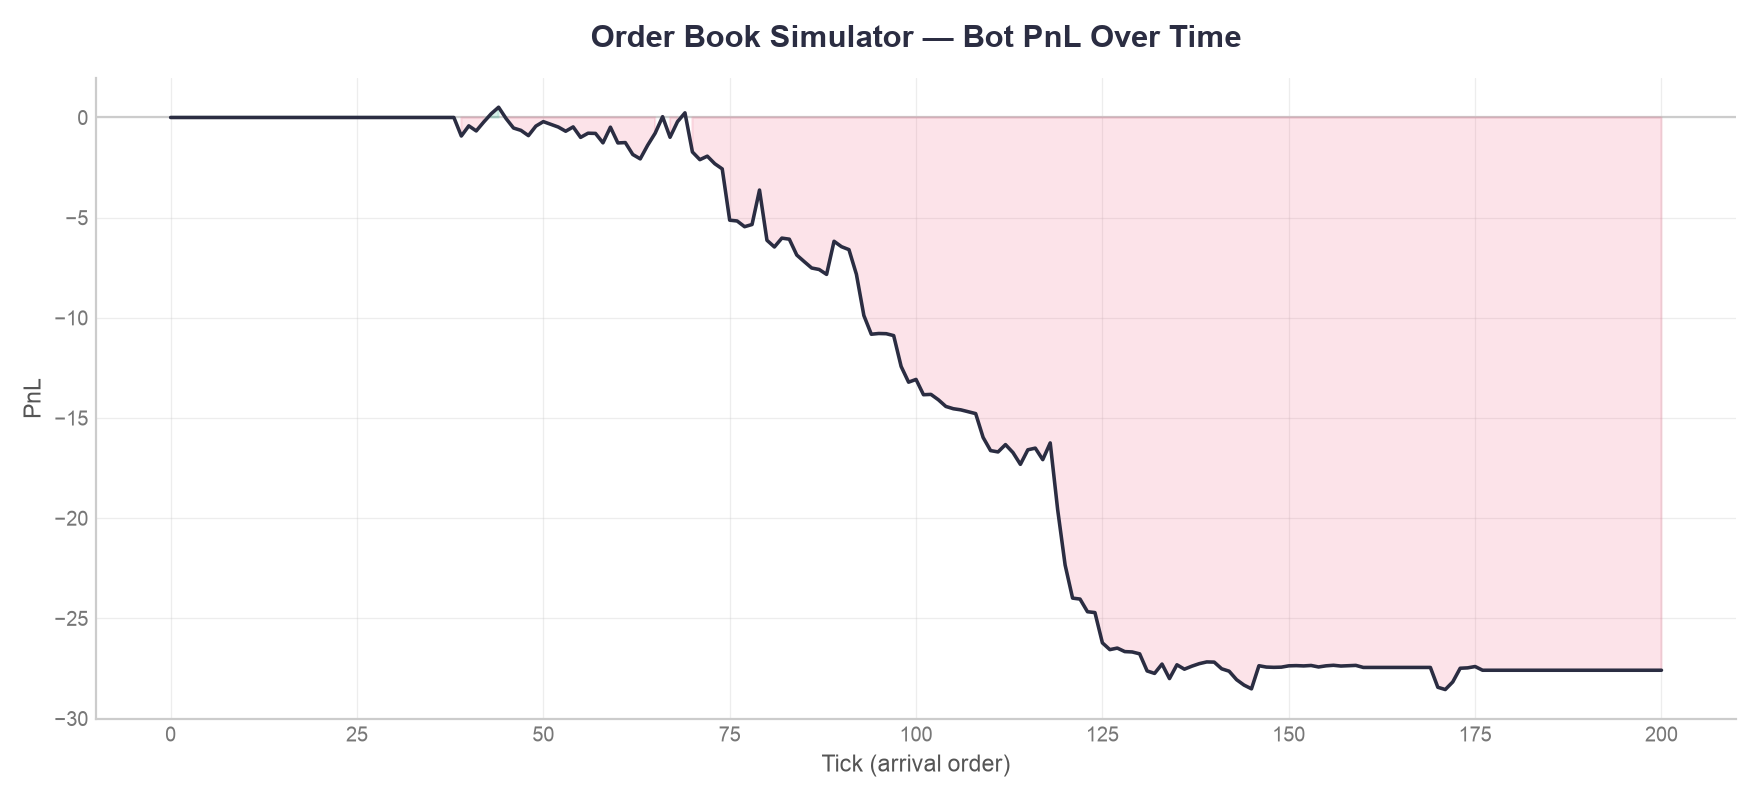
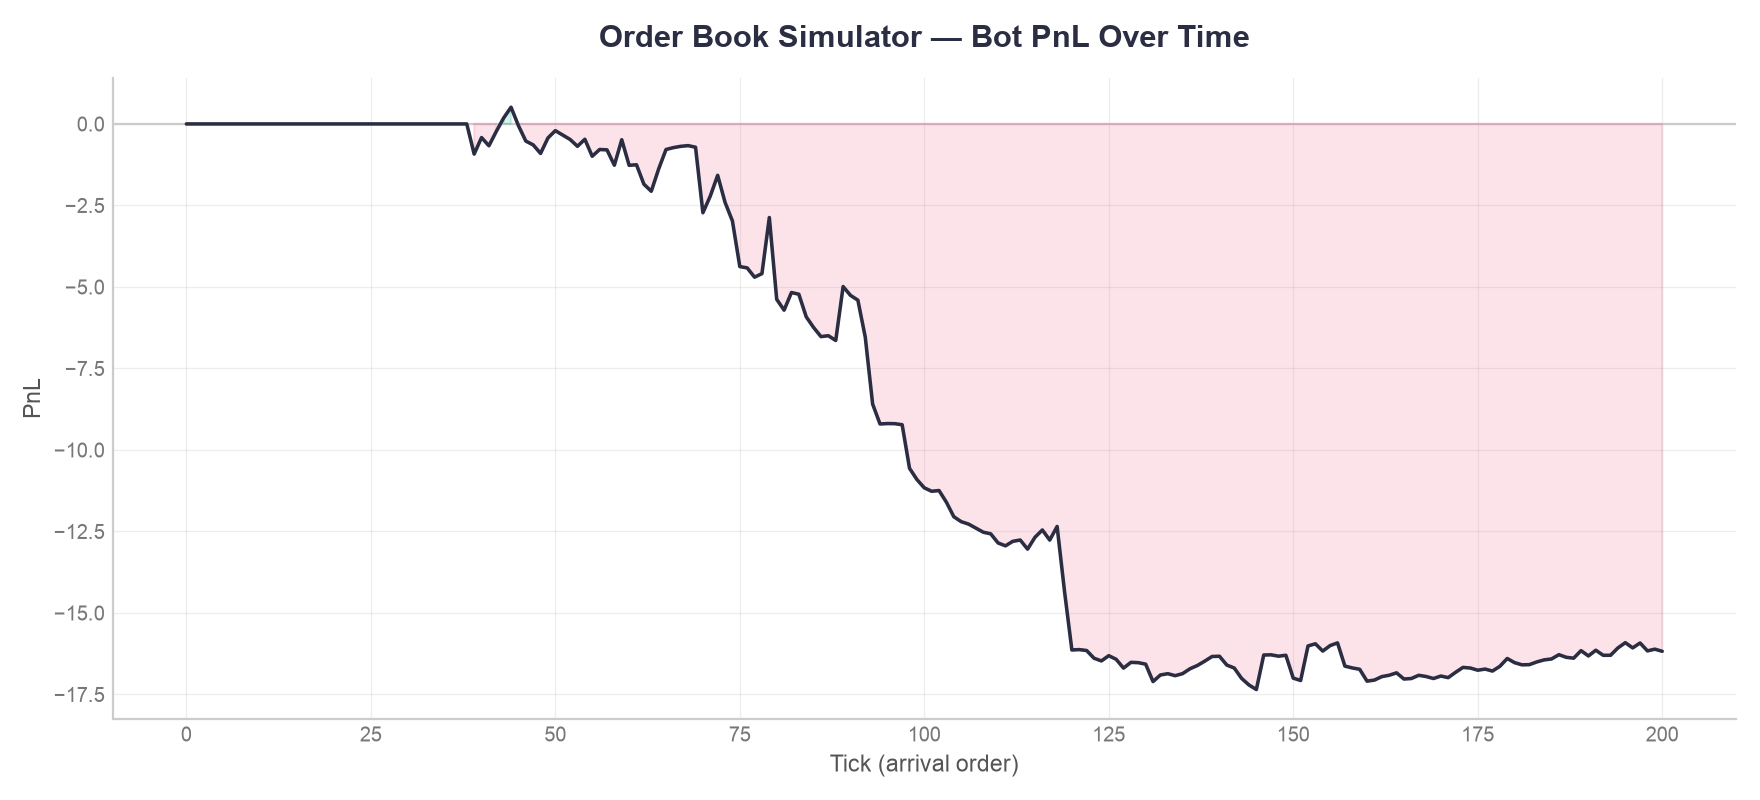
feat: volatility-based spread (level 3) with mid-history-driven stdev, tuned via multi-seed sweep

diff --git a/evaluate_volatility.py b/evaluate_volatility.py
@@ -1,0 +1,47 @@
+"""
+Same idea as evaluate_skew.py, but for vol_coefficient: runs the bot
+across many random seeds for each candidate value, so we judge each one
+by its AVERAGE behaviour (and how much it varies), not by a single
+lucky or unlucky simulation. skew_coefficient is fixed at 0.01 (the
+value evaluate_skew.py already found to be best), so this sweep isolates
+the effect of the volatility-based spread on top of that.
+"""
+
+import statistics
+from market_simulator import simulate_market_with_bot
+
+
+def evaluate_volatility(vol_values, n_seeds: int = 50, n_ticks: int = 200,
+                         skew_coefficient: float = 0.01, vol_window: int = 20):
+    results = {}
+    for vol_coef in vol_values:
+        pnls = []
+        abs_inventories = []
+        for seed in range(n_seeds):
+            book, price_history, bot, pnl_history = simulate_market_with_bot(
+                n_ticks=n_ticks, seed=seed, skew_coefficient=skew_coefficient,
+                vol_window=vol_window, vol_coefficient=vol_coef
+            )
+            inventory, cash = bot.get_inventory_and_cash()
+            pnl = bot.get_pnl()
+            pnls.append(pnl)
+            abs_inventories.append(abs(inventory))
+
+        results[vol_coef] = {
+            "mean_pnl": statistics.mean(pnls),
+            "stdev_pnl": statistics.stdev(pnls),
+            "mean_abs_inventory": statistics.mean(abs_inventories),
+        }
+    return results
+
+
+def print_results(results):
+    print(f"{'vol_coef':<10}{'mean PnL':>12}{'stdev PnL':>12}{'mean |inv|':>12}")
+    for vol_coef, r in results.items():
+        print(f"{vol_coef:<10}{r['mean_pnl']:>12.2f}{r['stdev_pnl']:>12.2f}{r['mean_abs_inventory']:>12.2f}")
+
+
+if __name__ == "__main__":
+    vol_values = [0, 10, 50, 100, 200, 500, 1000, 2000, 5000]
+    results = evaluate_volatility(vol_values, n_seeds=50, n_ticks=200)
+    print_results(results)

diff --git a/market_simulator.py b/market_simulator.py
@@ -9,16 +9,16 @@ import matplotlib.pyplot as plt
 from orderbook import Order, OrderBook, Side
 from market_maker import MarketMaker
 
-# TODO (self-cross / self-trade prevention): Order has no owner/trader_id
-# field right now. Once the market-making bot places its own bid and ask
-# into this same book, there's a theoretical risk of the bot crossing
-# against its own resting order. Two ways to handle it later:
-#   a) simple: the bot always cancels its previous quote before placing
-#      a new one, and never lets its own bid >= its own ask by design.
-#   b) robust: add an `owner` field to Order, and in add_limit_order,
-#      skip any best_counter whose owner matches order's owner (this is
-#      what real exchanges call self-trade prevention).
-# (a) is enough for this project's scale.
+# Self-cross / self-trade prevention - RESOLVED, not just deferred.
+# Order still has no owner/trader_id field, but it turns out it doesn't
+# need one: in MarketMaker.update_quotes, bid = skewed_mid - offset and
+# ask = skewed_mid + offset, where offset = mid * spread_pct / 2 is
+# always positive. That means bid < ask is guaranteed by construction,
+# no matter what the skew does to skewed_mid - the bot's own bid and ask
+# can never cross each other. A real exchange still needs a proper
+# owner-based self-trade check (many different strategies/desks share
+# the same book), but for this single bot, the formula itself already
+# rules out the risk.
 
 def random_order(true_price: float, timestamp: int, price_noise: float = 0.10, max_qty: int = 20) -> Order:
     """
@@ -61,7 +61,8 @@ def simulate_market(n_ticks: int = 200, start_price: float = 100.0, seed: int | 
 
 
 def simulate_market_with_bot(n_ticks: int = 200, start_price: float = 100.0, seed: int | None = None,
-                              spread_pct: float = 0.001, quote_qty: int = 10, skew_coefficient: float = 0.0):
+                              spread_pct: float = 0.001, quote_qty: int = 10, skew_coefficient: float = 0.0,
+                              vol_window: int = 20, vol_coefficient: float = 0.0):
     """
     Same as simulate_market, but a MarketMaker bot also quotes into the
     book every tick, right before that tick's random order arrives.
@@ -72,7 +73,8 @@ def simulate_market_with_bot(n_ticks: int = 200, start_price: float = 100.0, see
         random.seed(seed)
 
     book = OrderBook()
-    bot = MarketMaker(book, spread_pct=spread_pct, quote_qty=quote_qty, skew_coefficient=skew_coefficient)
+    bot = MarketMaker(book, spread_pct=spread_pct, quote_qty=quote_qty, skew_coefficient=skew_coefficient,
+                       vol_window=vol_window, vol_coefficient=vol_coefficient)
     true_price = start_price
     price_history = [(0, true_price)]
     pnl_history = [(0, 0.0)]                                                # bot starts with 0 PnL
@@ -167,7 +169,13 @@ if __name__ == "__main__":
     # skew_coefficient=0.01 chosen from evaluate_skew.py's 50-seed sweep
     # (see README Findings) - the best mean PnL / lowest variance point
     # before higher values start overcorrecting and giving up edge.
-    book, price_history, bot, pnl_history = simulate_market_with_bot(n_ticks=200, seed=42, skew_coefficient=0.01)
+    # vol_coefficient=200 chosen from evaluate_volatility.py's 50-seed sweep -
+    # keeps ~85% of normal trading activity while still trimming risk in
+    # jumpy periods; much higher values "win" on PnL only because the bot
+    # quotes so wide it stops trading altogether, which isn't a real win.
+    book, price_history, bot, pnl_history = simulate_market_with_bot(
+        n_ticks=200, seed=42, skew_coefficient=0.01, vol_coefficient=200
+    )
 
     print(f"Executed trades: {len(book.trades)}")
     print(f"Resting orders in bids: {len(book.bids)}  |  in asks: {len(book.asks)}")
@@ -179,5 +187,5 @@ if __name__ == "__main__":
     print(f"Bot cash: {cash:.2f}")
     print(f"Bot PnL: {pnl:.2f}")
 
-    plot_simulation(book, price_history, save_path="market_simulation_with_skew.png")
+    plot_simulation(book, price_history, save_path="market_simulation_with_volatility.png")
     plot_pnl(pnl_history, save_path="pnl_over_time.png")